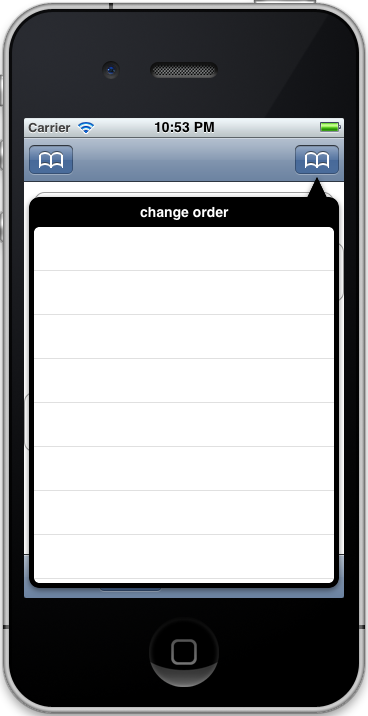
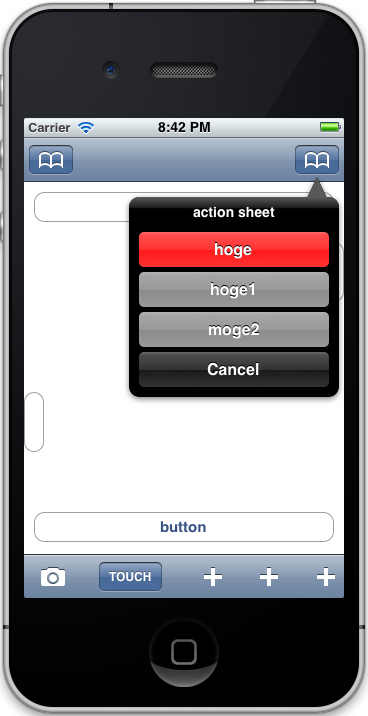
Add TSActionSheet

Changed region(s): [[0.0598, 0.2458, 0.9266, 0.8296], [0.4185, 0.1536, 0.5978, 0.1844]]

diff --git a/TSPopover/TSActionSheet.m b/TSPopover/TSActionSheet.m
@@ -1,0 +1,203 @@
+//
+//  TSActionSheet.m
+//  TSPopoverDemo
+//
+//  Created by Saito Takashi on 5/21/12.
+//  Copyright (c) 2012 ar.ms. All rights reserved.
+//
+
+#import "TSActionSheet.h"
+#import "TSPopoverController.h"
+#import "UIBarButtonItem+WEPopover.h"
+
+#define CORNER_RADIUS 5
+#define BORDER 5
+#define TITLE_SHADOW_OFFSET   CGSizeMake(0, -1)
+#define BUTTON_HEIGHT 35
+
+@implementation TSActionSheet
+
+@synthesize cornerRadius = _cornerRadius;
+@synthesize titleColor = _titleColor;
+@synthesize titleFont = _titleFont;
+@synthesize popoverBaseColor = _popoverBaseColor;
+@synthesize popoverGradient = _popoverGradient;
+@synthesize buttonGradient = _buttonGradient;
+
+
+- (id)initWithTitle:(NSString *)title 
+{
+    if ((self = [super init]))
+    {
+        self.frame = CGRectMake(0,0, 200, 300);
+        buttonsMutableArray = [[NSMutableArray alloc] init];
+        self.cornerRadius = CORNER_RADIUS;
+        self.buttonGradient = YES;
+        
+        popoverController = [[TSPopoverController alloc] init];
+        popoverController.titleText = title;
+        popoverController.titleColor = [UIColor whiteColor];
+        popoverController.titleFont = [UIFont boldSystemFontOfSize:14];
+        popoverController.popoverBaseColor = [UIColor blackColor];
+        popoverController.popoverGradient = YES;
+    }
+    return self;
+}
+
+- (void)addButtonWithTitle:(NSString *)title color:(UIColor*)color block:(void (^)())block
+{
+    [buttonsMutableArray addObject:[NSArray arrayWithObjects:
+                                    block ? [block copy] : [NSNull null],
+                                    title,
+                                    color,
+                                    nil]];
+}
+
+- (void)addButtonWithTitle:(NSString *)title block:(void (^)())block 
+{
+    [self addButtonWithTitle:title color:[UIColor grayColor] block:block];
+}
+
+- (void)destructiveButtonWithTitle:(NSString *)title block:(void (^)())block
+{
+    [self addButtonWithTitle:title color:[UIColor redColor] block:block];
+}
+
+- (void)cancelButtonWithTitle:(NSString *)title block:(void (^)())block
+{
+    [self addButtonWithTitle:title color:[UIColor blackColor] block:block];
+}
+
+
+
+
+//- (void)showFromBarButtonItem:(UIBarButtonItem *)item animated:(BOOL)animated
+- (void) showWithTouch:(UIEvent*)senderEvent
+{
+    NSUInteger i = 1;
+    NSUInteger buttonHeight = BUTTON_HEIGHT;
+    NSUInteger buttonY = BORDER;
+    for (NSArray *button in buttonsMutableArray)
+    {
+        NSString *title = [button objectAtIndex:1];
+        UIColor *color = [button objectAtIndex:2];
+        
+        UIImage *image = [self buttonImage:color];
+        
+        UIButton *button = [UIButton buttonWithType:UIButtonTypeCustom];
+        button.frame = CGRectMake(BORDER, buttonY, self.bounds.size.width-BORDER*2, buttonHeight);
+        button.titleLabel.font = [UIFont boldSystemFontOfSize:16];
+        button.titleLabel.minimumFontSize = 6;
+        button.titleLabel.adjustsFontSizeToFitWidth = YES;
+        button.titleLabel.textAlignment = UITextAlignmentCenter;
+        button.titleLabel.shadowOffset = TITLE_SHADOW_OFFSET;
+        button.backgroundColor = [UIColor clearColor];
+        button.tag = i++;
+        
+        [button setBackgroundImage:image forState:UIControlStateNormal];
+        [button setTitleColor:[UIColor whiteColor] forState:UIControlStateNormal];
+        [button setTitleShadowColor:[UIColor blackColor] forState:UIControlStateNormal];
+        [button setTitle:title forState:UIControlStateNormal];
+        button.accessibilityLabel = title;
+        
+        [button addTarget:self action:@selector(buttonClicked:) forControlEvents:UIControlEventTouchUpInside];
+        
+        [self addSubview:button];
+        buttonY += buttonHeight + BORDER;
+        
+    }
+    CGRect frame = self.frame;
+    frame.size.height = buttonY;
+    self.frame = frame;
+
+    popoverController.contentView = self;
+    popoverController.cornerRadius = self.cornerRadius;
+    [popoverController showPopoverWithTouch:senderEvent];
+}
+
+- (void)dismissWithClickedButtonIndex:(NSInteger)buttonIndex animated:(BOOL)animated 
+{
+    if (buttonIndex >= 0 && buttonIndex < [buttonsMutableArray count])
+    {
+        id obj = [[buttonsMutableArray objectAtIndex: buttonIndex] objectAtIndex:0];
+        if (![obj isEqual:[NSNull null]])
+        {
+            ((void (^)())obj)();
+        }
+    }
+    
+    if (animated)
+    {
+        [popoverController dismissPopoverAnimatd:YES];
+        [self removeFromSuperview];
+    }
+    else
+    {
+        [popoverController dismissPopoverAnimatd:NO];
+        [self removeFromSuperview];
+    }
+}
+
+#pragma mark - Action
+
+- (void)buttonClicked:(id)sender 
+{
+    /* Run the button's block */
+    int buttonIndex = [sender tag] - 1;
+    [self dismissWithClickedButtonIndex:buttonIndex animated:YES];
+}
+
+#pragma mark - UIImage
+
+-(UIImage*)buttonImage:(UIColor*)color
+{
+    
+    //Size
+    float buttonWidth = self.frame.size.width - (BORDER*2);
+    
+    UIGraphicsBeginImageContextWithOptions(CGSizeMake(buttonWidth, BUTTON_HEIGHT), NO, 0);
+    
+    //// General Declarations
+    CGColorSpaceRef colorSpace = CGColorSpaceCreateDeviceRGB();
+    CGContextRef context = UIGraphicsGetCurrentContext();
+    
+    //// Gradient Declarations
+    NSArray* gradientColors = [NSArray arrayWithObjects: 
+                               (id)[UIColor colorWithWhite:1.0 alpha:0.4].CGColor, 
+                               (id)[UIColor colorWithWhite: 1.0 alpha: 0.3].CGColor, 
+                               (id)[UIColor colorWithWhite: 1.0 alpha: 0.2].CGColor, 
+                               (id)[UIColor clearColor].CGColor, 
+                               (id)[UIColor colorWithWhite: 1.0 alpha: 0.1].CGColor, 
+                               (id)[UIColor colorWithWhite:1.0 alpha:0.2].CGColor, nil];
+    CGFloat gradientLocations[] = {0, 0.1, 0.49, 0.5, 0.51, 1};
+    CGGradientRef gradient = CGGradientCreateWithColors(colorSpace, (__bridge CFArrayRef)gradientColors, gradientLocations);
+    
+    
+    //// Rounded Rectangle Drawing
+    UIBezierPath* roundedRectanglePath = [UIBezierPath bezierPathWithRoundedRect: CGRectMake(0, 0, buttonWidth, BUTTON_HEIGHT) cornerRadius: self.cornerRadius];
+    [color setFill];
+    [roundedRectanglePath fill];
+    
+    
+    if(self.buttonGradient){
+        //// GradientPath Drawing
+        UIBezierPath* gradientPath = [UIBezierPath bezierPathWithRoundedRect: CGRectMake(0, 0, buttonWidth, BUTTON_HEIGHT) cornerRadius: self.cornerRadius];
+        CGContextSaveGState(context);
+        [gradientPath addClip];
+        CGContextDrawLinearGradient(context, gradient, CGPointMake(buttonWidth/2, 0), CGPointMake(buttonWidth/2, BUTTON_HEIGHT), 0);
+        CGContextRestoreGState(context);
+    }
+    
+    
+    //// Cleanup
+    CGGradientRelease(gradient);
+    CGColorSpaceRelease(colorSpace);
+    
+    UIImage *output = UIGraphicsGetImageFromCurrentImageContext();
+    UIGraphicsEndImageContext();
+    
+    
+    return output;
+}
+
+@end

diff --git a/Demo/TSPopoverDemo/MainViewController.m b/Demo/TSPopoverDemo/MainViewController.m
@@ -8,6 +8,7 @@
 
 #import "MainViewController.h"
 #import "TSPopoverController.h"
+#import "TSActionSheet.h"
 
 @implementation MainViewController
 
@@ -24,7 +25,7 @@
 {
     [super viewDidLoad];
     
-    UIBarButtonItem * topRightButton = [[UIBarButtonItem alloc] initWithBarButtonSystemItem:UIBarButtonSystemItemBookmarks target:self action:@selector(showPopover:forEvent:)];
+    UIBarButtonItem * topRightButton = [[UIBarButtonItem alloc] initWithBarButtonSystemItem:UIBarButtonSystemItemBookmarks target:self action:@selector(showActionSheet:forEvent:)];
     self.navigationItem.leftBarButtonItem = topRightButton;
     self.navigationItem.rightBarButtonItem = topRightButton;
     self.navigationController.toolbarHidden = NO;
@@ -111,6 +112,22 @@
 //    popoverController.arrowPosition = TSPopoverArrowPositionHorizontal;
     [popoverController showPopoverWithTouch:event];
 
+}
+
+-(void) showActionSheet:(id)sender forEvent:(UIEvent*)event
+{
+    TSActionSheet *actionSheet = [[TSActionSheet alloc] initWithTitle:@"action sheet"];
+    [actionSheet destructiveButtonWithTitle:@"hoge" block:nil];
+    [actionSheet addButtonWithTitle:@"hoge1" block:^{
+        NSLog(@"pushed hoge1 button");
+    }];
+    [actionSheet addButtonWithTitle:@"moge2" block:^{
+        NSLog(@"pushed hoge2 button");
+    }];
+    [actionSheet cancelButtonWithTitle:@"Cancel" block:nil];
+    actionSheet.cornerRadius = 5;
+    
+    [actionSheet showWithTouch:event];
 }
 
 @end

diff --git a/TSPopover/UIBarButtonItem+WEPopover.m b/TSPopover/UIBarButtonItem+WEPopover.m
@@ -1,0 +1,50 @@
+/*
+ *  UIBarButtonItem+WEPopover.m
+ *  WEPopover
+ *
+ *  Created by Werner Altewischer on 07/05/11.
+ *  Copyright 2010 Werner IT Consultancy. All rights reserved.
+ *
+ */
+
+#import "UIBarButtonItem+WEPopover.h" 
+
+@implementation UIBarButtonItem(WEPopover)
+
+- (CGRect)frameInView:(UIView *)v {
+	
+	BOOL hasCustomView = (self.customView != nil);
+	
+	if (!hasCustomView) {
+		UIView *tempView = [[UIView alloc] initWithFrame:CGRectZero];
+		self.customView = tempView;
+	}
+	
+	UIView *parentView = self.customView.superview;
+	NSUInteger indexOfView = [parentView.subviews indexOfObject:self.customView];
+	
+	if (!hasCustomView) {
+		self.customView = nil;
+	}
+	UIView *button = [parentView.subviews objectAtIndex:indexOfView];
+	return [parentView convertRect:button.frame toView:v];
+}
+
+- (UIView *)superview {
+	
+	BOOL hasCustomView = (self.customView != nil);
+	
+	if (!hasCustomView) {
+		UIView *tempView = [[UIView alloc] initWithFrame:CGRectZero];
+		self.customView = tempView;
+	}
+	
+	UIView *parentView = self.customView.superview;
+	
+	if (!hasCustomView) {
+		self.customView = nil;
+	}
+	return parentView;
+}
+
+@end

diff --git a/TSPopover/TSActionSheet.h b/TSPopover/TSActionSheet.h
@@ -1,0 +1,33 @@
+//
+//  TSActionSheet.h
+//  TSPopoverDemo
+//
+//  Created by Saito Takashi on 5/21/12.
+//  Copyright (c) 2012 ar.ms. All rights reserved.
+//
+
+#import <Foundation/Foundation.h>
+
+@class TSPopoverController;
+
+@interface TSActionSheet : UIView
+{
+    TSPopoverController *popoverController ;
+    NSMutableArray *buttonsMutableArray;
+}
+
+@property (strong, nonatomic) UIColor *titleColor;
+@property (strong, nonatomic) UIFont *titleFont;
+@property (strong, nonatomic) UIColor *popoverBaseColor;
+@property (nonatomic) int cornerRadius;
+@property (nonatomic) BOOL popoverGradient; 
+@property (nonatomic) BOOL buttonGradient;
+
+- (id)initWithTitle:(NSString *)title;
+- (void)cancelButtonWithTitle:(NSString *) title block:(void (^)()) block;
+- (void)destructiveButtonWithTitle:(NSString *) title block:(void (^)()) block;
+- (void)addButtonWithTitle:(NSString *) title block:(void (^)()) block;
+- (void)addButtonWithTitle:(NSString *)title color:(UIColor*)color block:(void (^)())block;
+- (void) showWithTouch:(UIEvent*)senderEvent;
+
+@end

diff --git a/TSPopover/TSPopoverController.h b/TSPopover/TSPopoverController.h
@@ -47,6 +47,7 @@ typedef NSUInteger TSPopoverArrowPosition;
 - (id)initWithContentViewController:(UIViewController*)viewController;
 - (id)initWithView:(UIView*)view;
 - (void) showPopoverWithTouch:(UIEvent*)senderEvent;
+- (void) showPopoverWithRect:(CGRect)senderRect;
 - (void) view:(UIView*)view touchesBegan:(NSSet*)touches withEvent:(UIEvent*)event;
 - (void) dismissPopoverAnimatd:(BOOL)animated;
 

diff --git a/TSPopover/UIBarButtonItem+WEPopover.h b/TSPopover/UIBarButtonItem+WEPopover.h
@@ -1,0 +1,15 @@
+/*
+ *  UIBarButtonItem+WEPopover.h
+ *  WEPopover
+ *
+ *  Created by Werner Altewischer on 07/05/11.
+ *  Copyright 2010 Werner IT Consultancy. All rights reserved.
+ *
+ */
+
+@interface UIBarButtonItem(WEPopover)
+
+- (CGRect)frameInView:(UIView *)v;
+- (UIView *)superview;
+
+@end

diff --git a/TSPopover/TSPopoverController.m b/TSPopover/TSPopoverController.m
@@ -100,7 +100,7 @@
     [self showPopoverWithPoint:senderPoint];
 }
 
-- (void) showPopoverWithFrame:(CGRect)senderFrame
+- (void) showPopoverWithRect:(CGRect)senderRect
 {
     
 }

diff --git a/readme.md b/readme.md
@@ -1,6 +1,6 @@
 # TSPopover
 
-UIPopover like UI for iPhone - there is lot's of work still to do.
+UIPopover like UI (with ActionSheet) for iPhone - there is lot's of work still to do.
 
 ## Screenshots
 
@@ -21,7 +21,7 @@ UIPopover like UI for iPhone - there is lot's of work still to do.
 ## Usage
 (see sample Xcode project in `/Demo`)  
 
-## customize
+## Customize
 - background color
 - background gradiation (on / off)
 - corner radius
@@ -29,6 +29,10 @@ UIPopover like UI for iPhone - there is lot's of work still to do.
 - title text 
 - title text color
 - title text font
+
+## Changelog
+- Added TSActionSheet
+
 
 
 
